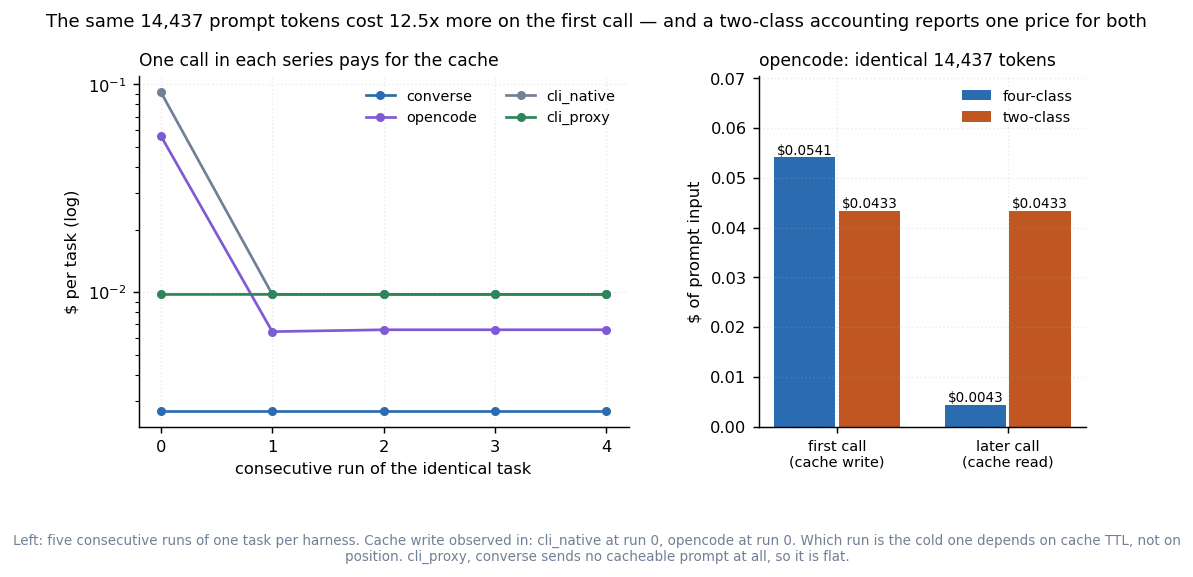
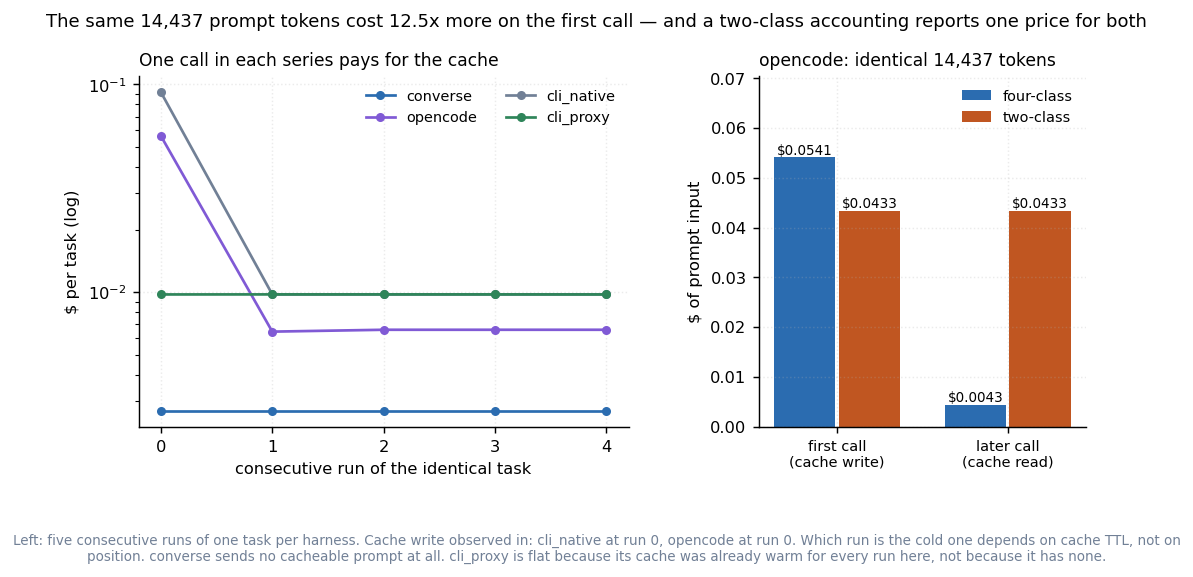
study: fix three figure defects found by looking at the rendered PNGs
- harness_cost placed its "no route" marker at the log axis's lower *data* limit,
  before autoscaling had settled it. With bbox_inches="tight" that produced a
  977x108618-pixel PNG. Now positioned in axes coordinates via get_xaxis_transform.
  Every figure's dimensions are checked after this.
- cold_start's caption said cli_proxy "sends no cacheable prompt", conflating two
  different reasons a series is flat. converse sends no cache points at all;
  cli_proxy's cache was simply warm for every run in this grid. The caption now
  derives the distinction from cache_read_tokens instead of asserting it.
- harness_cost's headline ratio (80x) mixes prompt overhead with turn count —
  cli_proxy x glm5 took 4 provider calls per task where the others took 1-2. Said so
  in the caption rather than letting the number read as prompt overhead alone.

The first of these is the reason to render and then *look*: it passed every test,
wrote its source CSV correctly, and was unreadable.

Changed region(s): [[0.093, 0.9359, 0.9304, 0.9983]]

diff --git a/examples/harness_study/plots.py b/examples/harness_study/plots.py
@@ -425,9 +425,12 @@ def fig_harness_cost() -> None:
         for m_index, model in enumerate(models):
             if any(e["harness"] == harness and e["model"] == model for e in drawn):
                 continue
-            ax.text(m_index + h_index * width - 0.4 + width / 2, ax.get_ylim()[0],
-                    " no route ", rotation=90, ha="center", va="bottom", fontsize=6.5,
-                    color=C_NEUTRAL)
+            # y in *axes* coordinates via get_xaxis_transform, not data coordinates. On a
+            # log axis the lower data limit is not yet settled when this runs, and placing
+            # text there once produced a 108,000-pixel-tall PNG.
+            ax.text(m_index + h_index * width - 0.4 + width / 2, 0.02,
+                    "no route", rotation=90, ha="center", va="bottom", fontsize=6.5,
+                    color=C_NEUTRAL, transform=ax.get_xaxis_transform())
 
     ax.set_xticks(range(len(models)))
     ax.set_xticklabels(models)
@@ -458,11 +461,14 @@ def fig_harness_cost() -> None:
     total_passed = sum(p for p, _ in passes)
     total_n = sum(n for _, n in passes)
     fig.text(0.5, -0.30,
-             f"{total_n} live cells, n={total_n // max(len(drawn), 1)} per cell, median of "
-             f"each cell. Task solved in {total_passed}/{total_n} — too few trials to rank "
-             f"the harnesses on quality, which is why only cost is drawn. Nova and GLM "
-             f"costs use estimated rates (see pricing.py).",
-             ha="center", fontsize=7.5, color=C_NEUTRAL, wrap=True)
+             f"{total_n} live cells, n={total_n // max(len(drawn), 1)}, median per cell. "
+             f"Solved in {total_passed}/{total_n} — too few trials to rank quality, which "
+             f"is why only cost is drawn. Bars absent where the harness has no route.\n"
+             f"The widest gaps mix two causes: prompt overhead (see prompt_overhead) and "
+             f"extra turns — cli_proxy x glm5 took 4 provider calls per task where the "
+             f"others took 1-2.\nNova and GLM use estimated rates (pricing.py); the "
+             f"Anthropic figures use published ones.",
+             ha="center", fontsize=7.5, color=C_NEUTRAL)
     _save(fig, "harness_cost", drawn,
           ["harness", "model", "n", "passed", "median_cost_usd", "mean_cost_usd",
            "median_billed_input_tokens"])
@@ -874,14 +880,25 @@ def fig_cold_start() -> None:
         f"{entry['harness']} at run {entry['repeat']}"
         for entry in drawn if entry["cache_creation_tokens"]
     )
-    flat = sorted({entry["harness"] for entry in drawn
-                   if not any(e["cache_creation_tokens"] for e in drawn
-                              if e["harness"] == entry["harness"])})
+    # Two different reasons a series can be flat, and they must not be conflated: a
+    # harness that sends no cacheable prompt at all, and one whose cache was already warm
+    # for every run in this grid.
+    harnesses = sorted({entry["harness"] for entry in drawn})
+    uncached, already_warm = [], []
+    for harness in harnesses:
+        own = [e for e in drawn if e["harness"] == harness]
+        if any(e["cache_creation_tokens"] for e in own):
+            continue
+        (already_warm if any(e["cache_read_tokens"] for e in own)
+         else uncached).append(harness)
     note = (f"Left: five consecutive runs of one task per harness. Cache write observed "
             f"in: {', '.join(cold_runs) if cold_runs else 'none'}. Which run is the cold "
             f"one depends on cache TTL, not on position.")
-    if flat:
-        note += (f" {', '.join(flat)} sends no cacheable prompt at all, so it is flat.")
+    if uncached:
+        note += f" {', '.join(uncached)} sends no cacheable prompt at all."
+    if already_warm:
+        note += (f" {', '.join(already_warm)} is flat because its cache was already warm "
+                 f"for every run here, not because it has none.")
     fig.text(0.5, -0.18, note, ha="center", fontsize=7.5, color=C_NEUTRAL, wrap=True)
     _save(fig, "cold_start", drawn,
           ["harness", "repeat", "cost_usd", "cache_creation_tokens",
